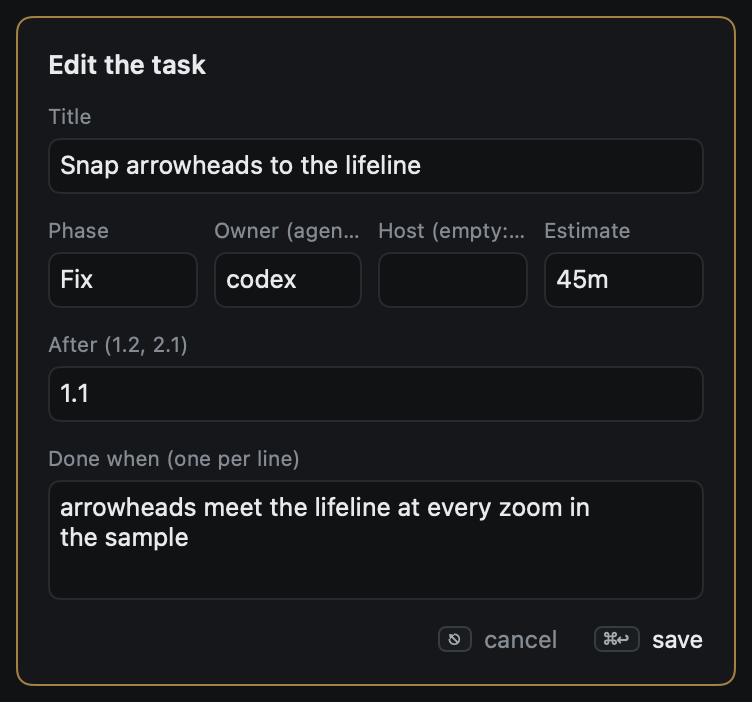
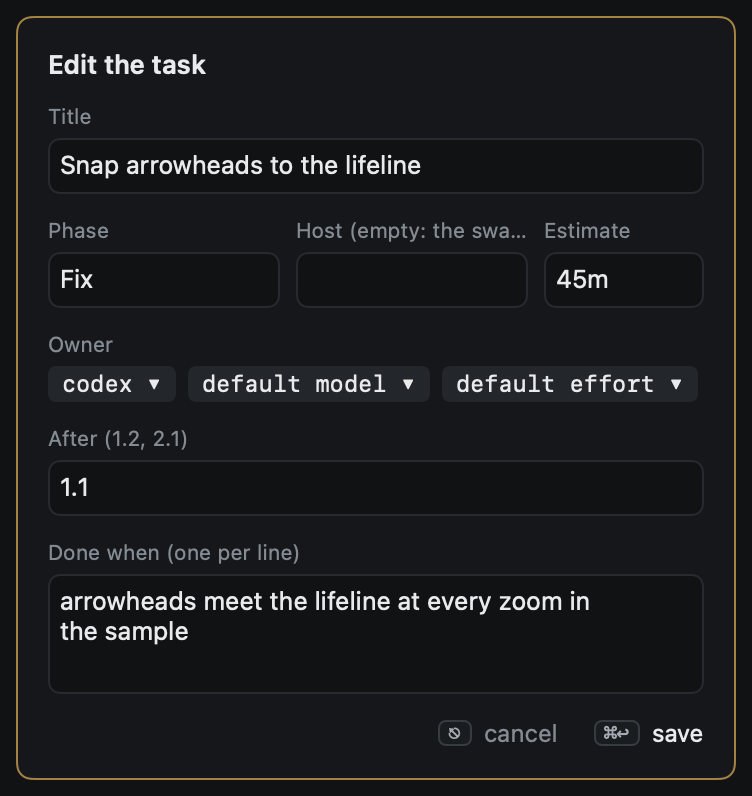
The plan pane's task editor picks the owner's agent, model and effort
The owner was typed as agent:model. It is now an agent from a menu (or no owner)
with the same model and effort chips as the swarm form, Custom… for any other id;
a custom id with spaces is refused with the reason.

diff --git a/Sources/HeedApp/Views/GoalPlanView.swift b/Sources/HeedApp/Views/GoalPlanView.swift
@@ -869,10 +869,10 @@ private struct PlanEditor: View {
                 field("Title", \.fields.title)
                 HStack(spacing: 8) {
                     field("Phase", \.fields.phase)
-                    field("Owner (agent:model)", \.fields.owner)
                     field("Host (empty: the swarm's)", \.fields.host)
                     field("Estimate", \.fields.estimate).frame(width: 80)
                 }
+                owner
                 field("After (1.2, 2.1)", \.fields.after)
                 field("Done when (one per line)", \.fields.doneWhen, lines: 3)
             } else {
@@ -891,6 +891,54 @@ private struct PlanEditor: View {
             }
         }
         .overlay(RoundedRectangle(cornerRadius: 8).strokeBorder(Theme.block.opacity(0.6)))
+    }
+
+    /// The owner: an agent from a menu (or none), then its model and effort, picked like the swarm form's.
+    private var owner: some View {
+        let fields = draft.fields
+        let agentText = fields.agent.isEmpty ? "no owner" : fields.agent
+        let label = Text(agentText + " ▾").font(Theme.mono(11.5)).foregroundStyle(Theme.fg)
+            .padding(.horizontal, 7).padding(.vertical, 2)
+            .background(RoundedRectangle(cornerRadius: 4).fill(Theme.chip))
+        return VStack(alignment: .leading, spacing: 4) {
+            Text("Owner").font(Theme.ui(10.5)).foregroundStyle(Theme.fg3)
+            HStack(spacing: 6) {
+                if ShotMode.active {
+                    label
+                } else {
+                    Menu {
+                        Button("no owner") { setOwner(agent: "") }
+                        ForEach(model.settings.agents.map(\.name), id: \.self) { name in
+                            Button(name) { setOwner(agent: name) }
+                        }
+                    } label: { label }
+                        .menuStyle(.borderlessButton).menuIndicator(.hidden).fixedSize()
+                }
+                if !fields.agent.isEmpty {
+                    let catalog = model.modelCatalog(fields.agent)
+                    ModelChips(
+                        catalog: catalog, model: fields.model.isEmpty ? nil : fields.model,
+                        effort: fields.effort.isEmpty ? nil : fields.effort,
+                        setModel: { next in
+                            let effort = model.goals.planDraft?.fields.effort ?? ""
+                            model.goals.planDraft?.fields.model = next ?? ""
+                            model.goals.planDraft?.fields.effort = ModelPicker.effort(
+                                effort.isEmpty ? nil : effort, after: next, in: catalog
+                            ) ?? ""
+                        },
+                        setEffort: { model.goals.planDraft?.fields.effort = $0 ?? "" }
+                    )
+                }
+            }
+        }
+    }
+
+    /// Another agent: its own default model and effort.
+    private func setOwner(agent: String) {
+        guard model.goals.planDraft?.fields.agent != agent else { return }
+        model.goals.planDraft?.fields.agent = agent
+        model.goals.planDraft?.fields.model = ""
+        model.goals.planDraft?.fields.effort = ""
     }
 
     private var title: String {

diff --git a/Sources/HeedCore/Goals/SwarmTaskForm.swift b/Sources/HeedCore/Goals/SwarmTaskForm.swift
@@ -1,12 +1,16 @@
 import Foundation
 
 /// A plan task as you type it in the plan pane: its fields as text, read back into a task (`after` as plan numbers
-/// like `1.2` or ids, done-when one check per line, the owner as `agent` or `agent:model`, the host as a host's name,
-/// `local`, or empty for where the swarm runs).
+/// like `1.2` or ids, done-when one check per line, the host as a host's name, `local`, or empty for where the swarm
+/// runs). The owner is picked: an agent (empty: none), its model and effort (empty: the agent's default).
 public struct SwarmTaskForm: Hashable, Sendable {
     public var title = ""
     public var phase = ""
-    public var owner = ""
+    /// The owner's agent; empty: no owner.
+    public var agent = ""
+    /// Its model (a known one or a custom id) and effort; empty: the agent's default.
+    public var model = ""
+    public var effort = ""
     public var estimate = ""
     public var after = ""
     public var doneWhen = ""
@@ -19,7 +23,9 @@ public struct SwarmTaskForm: Hashable, Sendable {
         let numbers = SwarmPlan.numbers(tasks)
         title = task.title
         phase = task.phase
-        owner = task.owner.map { owner in owner.model.map { "\(owner.agent):\($0)" } ?? owner.agent } ?? ""
+        agent = task.owner?.agent ?? ""
+        model = task.owner?.model ?? ""
+        effort = task.owner?.effort ?? ""
         estimate = task.estimate.map(SwarmEstimate.text) ?? ""
         after = task.after.map { numbers[$0] ?? SwarmPlan.short($0) }.joined(separator: ", ")
         doneWhen = task.doneWhen.joined(separator: "\n")
@@ -47,11 +53,14 @@ public struct SwarmTaskForm: Hashable, Sendable {
             guard found != id else { return .failure(Problem("a task cannot wait for itself")) }
             if !waits.contains(found) { waits.append(found) }
         }
-        let parts = owner.split(separator: ":").map { $0.trimmingCharacters(in: .whitespaces) }
-        let who = parts.first.flatMap { $0.isEmpty ? nil : GoalItem.Owner(
-            agent: $0,
-            model: parts.count > 1 ? parts[1] : nil
-        ) }
+        let agent = agent.trimmingCharacters(in: .whitespaces)
+        let model = model.trimmingCharacters(in: .whitespaces)
+        if !agent.isEmpty, !model.isEmpty, let problem = ModelPicker.problem(custom: model) {
+            return .failure(Problem("the owner's model: \(problem)"))
+        }
+        let who = agent.isEmpty ? nil : GoalItem.Owner(
+            agent: agent, model: model, effort: effort.trimmingCharacters(in: .whitespaces).lowercased()
+        )
         let phase = GoalDoc.oneLine(phase)
         let place: String?
         switch SwarmPlace.parse(host, hosts: hosts) {

diff --git a/Tests/HeedCoreTests/SwarmTests.swift b/Tests/HeedCoreTests/SwarmTests.swift
@@ -698,11 +698,11 @@ struct SwarmTaskFormTests {
 
     @Test func aTaskReadsBackFromItsFields() throws {
         let task = SwarmTask(
-            id: "g/b", title: "B", phase: "Two", owner: GoalItem.Owner(agent: "codex", model: "o4"), estimate: 90,
-            after: ["g/a"], doneWhen: ["x", "y"]
+            id: "g/b", title: "B", phase: "Two", owner: GoalItem.Owner(agent: "codex", model: "o4", effort: "high"),
+            estimate: 90, after: ["g/a"], doneWhen: ["x", "y"]
         )
         let form = SwarmTaskForm(task, in: tasks)
-        #expect(form.owner == "codex:o4")
+        #expect(form.agent == "codex" && form.model == "o4" && form.effort == "high")
         #expect(form.estimate == "1h 30m")
         #expect(form.after == "1.1")
         #expect(form.doneWhen == "x\ny")
@@ -725,5 +725,20 @@ struct SwarmTaskFormTests {
         #expect(task?.phase == "Plan")
         form.after = "1.1"
         #expect(form.task(id: "g/a", in: tasks) == .failure(.init("a task cannot wait for itself")))
+    }
+
+    @Test func theOwnerIsAnAgentWithAModelAndEffortOrNone() throws {
+        var form = SwarmTaskForm()
+        form.title = "C"
+        form.model = "ignored without an agent"
+        #expect(try form.task(id: "g/c", in: tasks).get().owner == nil)
+        form.agent = "claude"
+        form.model = "two words"
+        #expect(form.task(id: "g/c", in: tasks) == .failure(.init("the owner's model: a model id has no spaces")))
+        form.model = ""
+        form.effort = "High"
+        #expect(try form.task(id: "g/c", in: tasks).get().owner == GoalItem.Owner(agent: "claude", effort: "high"))
+        form.model = "my-proxy-model"
+        #expect(try form.task(id: "g/c", in: tasks).get().owner?.model == "my-proxy-model")
     }
 }

diff --git a/Sources/HeedCore/Goals/SwarmPlanInput.swift b/Sources/HeedCore/Goals/SwarmPlanInput.swift
@@ -12,7 +12,8 @@ import Foundation
 ///
 /// A task's `id` names it in `after`; an id of an item already on the goal takes that item into the plan. Without an id
 /// a task keeps the id of the current plan's task with the same title, or gets one made from its title. `owner` is an
-/// agent (`claude`), `agent:model`, or `{"agent": …, "model": …}`; `estimate` minutes or `15m`, `1h 30m`; `host` where
+/// agent (`claude`), `agent:model`, or `{"agent": …, "model": …, "effort": …}`; `estimate` minutes or `15m`, `1h 30m`;
+/// `host` where
 /// its worker runs when not where the swarm does (a host's name, or `local` for the owner's Mac).
 public struct SwarmPlanInput: Hashable, Sendable {
     public struct Scope: Hashable, Sendable {

diff --git a/Sources/HeedApp/Model/AppModel+Swarm.swift b/Sources/HeedApp/Model/AppModel+Swarm.swift
@@ -346,7 +346,7 @@ extension AppModel {
         let at = goals.selectedTask.flatMap { task in tasks.firstIndex { $0.id == task.id } } ?? tasks.count - 1
         var draft = PlanDraft(kind: .add(after: tasks.isEmpty ? -1 : at))
         draft.fields.phase = goals.selectedTask?.phase ?? tasks.last?.phase ?? "Plan"
-        draft.fields.owner = board.swarm.settings.team.first ?? ""
+        draft.fields.agent = board.swarm.settings.team.first ?? ""
         guard words.isEmpty else {
             draft.fields.title = words.joined(separator: " ")
             return savePlanDraft(draft)

diff --git a/docs/goals/swarms/plan.md b/docs/goals/swarms/plan.md
@@ -20,7 +20,7 @@ agents.
 |---|---|
 | `⇥` | The goals, the tasks, the versions, the steering log, in turn |
 | `j` `k` | Move through the tasks, the versions or the steering log |
-| `e` | Edit the task under the cursor: title, phase, owner (`agent` or `agent:model`), host, estimate, after, done when |
+| `e` | Edit the task under the cursor: title, phase, host, estimate, the owner (an agent, its model and effort, picked from [lists](../../agents/models.md) with Custom… for any other id), after, done when |
 | `a` | Add a task after the one under the cursor, in its phase |
 | `J` `K` | Move the task down or up; past the edge of its phase it joins the next |
 | `x` | Drop the task; nothing waits for it any more |
